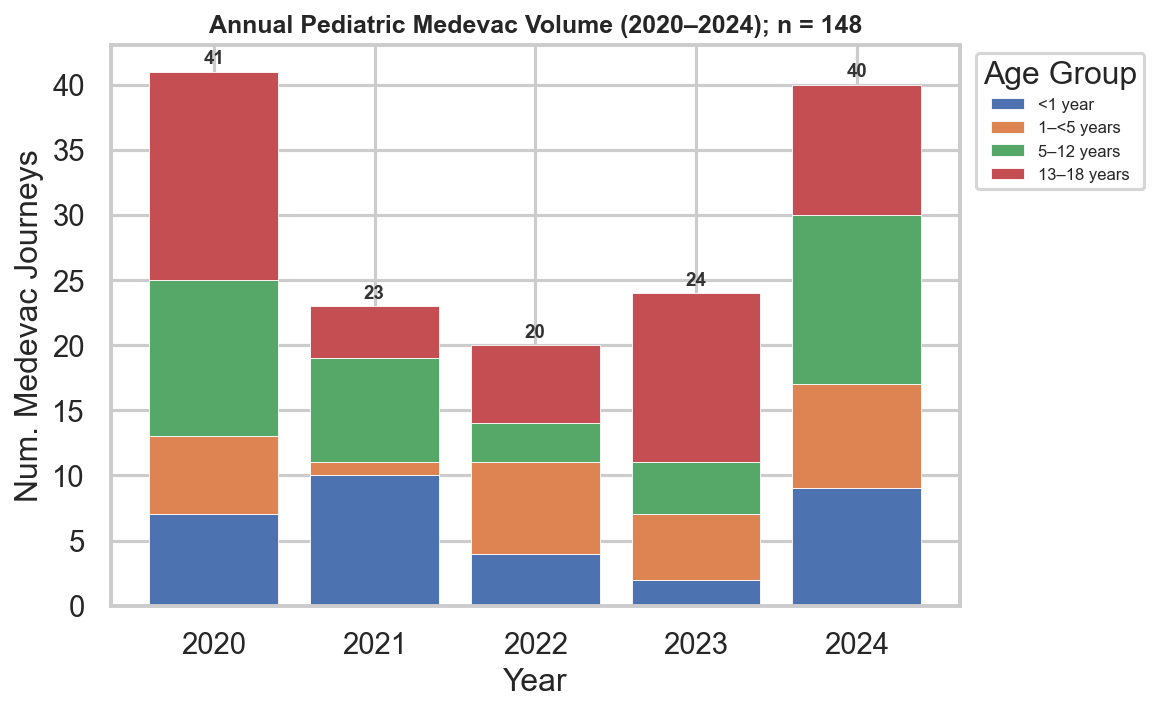
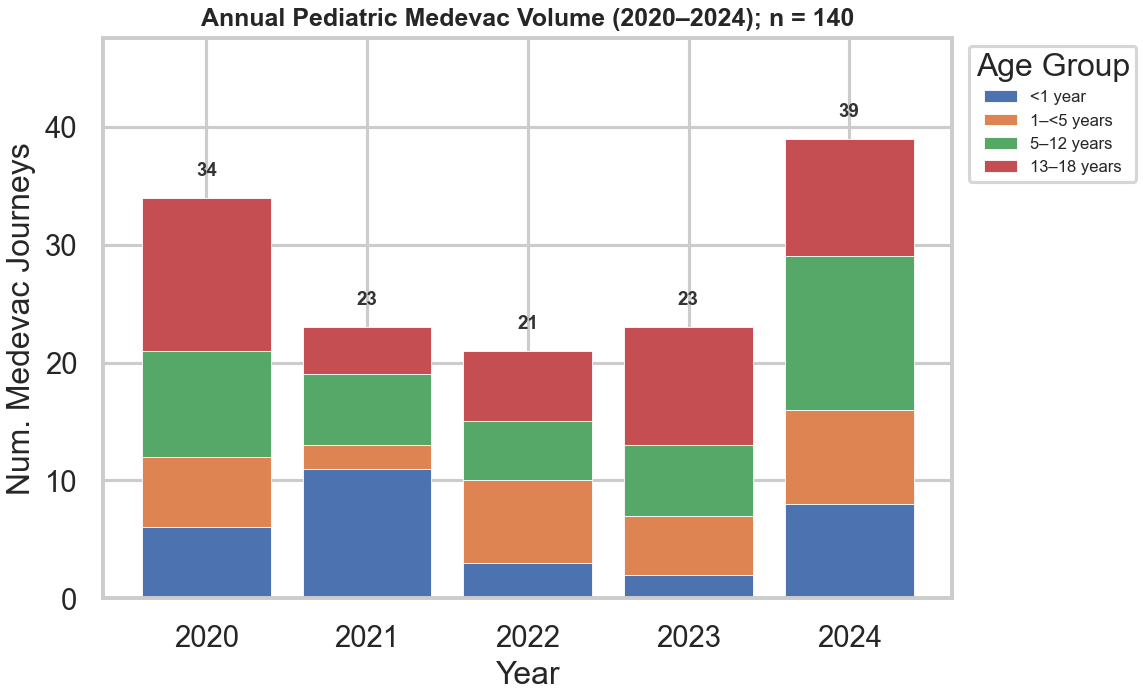
Fix temporal volume figures for primary cohort and regenerate PNGs.
Use journeys_primary with village→MHC route filter, calendar dates from activation timestamps, matching title n to bar totals, y-axis headroom for labels, and pipeline export of fig1a/b and fig2a/b.

Changed region(s): [[0.0, 0.0, 1.0, 0.9943]]

diff --git a/analysis/medevac_summaries.py b/analysis/medevac_summaries.py
@@ -3725,29 +3725,95 @@ _AGE_PALETTE = ["#4C72B0","#DD8452","#55A868","#C44E52"]
 _AGE_ORDER   = ["<1 year","1–<5 years","5–12 years","13–18 years"]
 
 
-def _prep_stacked(
-    df: pd.DataFrame,
-    group_col: str,
-    group_order: list[str],
-    palette: list[str],
-    start_year: int = 2020,
-    end_year:   int = 2024,
-) -> tuple[pd.DataFrame, dict[str, str]]:
-    """Filter to study period and pivot to stacked-bar format."""
+_PRIMARY_ROUTE_LABEL = "Primary (village → MHC)"
+
+
+def _add_calendar_ym(df: pd.DataFrame) -> pd.DataFrame:
+    """Derive calendar year/month from activation timestamps (fallback to journey_start_*)."""
     d = df.copy()
-    yr = pd.to_numeric(d.get("journey_start_year", pd.Series([], dtype=float)), errors="coerce")
-    d = d[yr.between(start_year, end_year, inclusive="both")]
-    color_map = {g: palette[i % len(palette)] for i, g in enumerate(group_order)}
-    return d, color_map
+    yr = pd.Series(pd.NA, index=d.index, dtype="object")
+    mo = pd.Series(pd.NA, index=d.index, dtype="object")
+    for col in ("medevac1_dts", "origin_datetime", "medevac1_date", "journey_start_date"):
+        if col not in d.columns:
+            continue
+        dt = pd.to_datetime(d[col], errors="coerce")
+        yr = yr.where(yr.notna(), dt.dt.year)
+        mo = mo.where(mo.notna(), dt.dt.month)
+    if "journey_start_year" in d.columns:
+        yr = yr.where(yr.notna(), pd.to_numeric(d["journey_start_year"], errors="coerce"))
+    if "journey_start_month" in d.columns:
+        mo = mo.where(mo.notna(), pd.to_numeric(d["journey_start_month"], errors="coerce"))
+    d["_cal_year"] = pd.to_numeric(yr, errors="coerce").astype("Int64")
+    d["_cal_month"] = pd.to_numeric(mo, errors="coerce").astype("Int64")
+    return d
+
+
+def _temporal_cohort_df(
+    df: pd.DataFrame | None = None,
+    start_year: int = 2020,
+    end_year: int = 2024,
+    primary_only: bool = True,
+) -> pd.DataFrame:
+    """
+    Journeys for Paper 1 temporal volume figures.
+
+    Defaults to the prepared primary cohort (village → MHC, no secondary transfer)
+    in the study window, using medevac1_dts-derived calendar dates when available.
+    """
+    if df is None or (isinstance(df, pd.DataFrame) and df.empty):
+        d = load_journeys_primary_prepared()
+    else:
+        d = df.drop_duplicates(subset=["journey_id"]).copy()
+
+    if d.empty:
+        return d
+
+    d = _add_calendar_ym(d)
+    in_window = d["_cal_year"].between(start_year, end_year) & d["_cal_month"].between(1, 12)
+    d = d[in_window].copy()
+
+    if primary_only and "route_type" in d.columns:
+        d = d[d["route_type"] == _PRIMARY_ROUTE_LABEL].copy()
+
+    if "village_name" in d.columns:
+        d["_village"] = d["village_name"].astype(str).str.strip()
+        if "facility_1_name" in d.columns:
+            d["_village"] = d["_village"].where(d["_village"].ne(""), d["facility_1_name"])
+    elif "facility_1_name" in d.columns:
+        d["_village"] = d["facility_1_name"].astype(str).str.strip()
+    else:
+        d["_village"] = ""
+
+    age_col = "age_at_medevac_num" if "age_at_medevac_num" in d.columns else "age_at_medevac"
+    age = pd.to_numeric(d.get(age_col), errors="coerce")
+    d["_age_grp"] = age.map(_age_bucket_label)
+    return d
+
+
+def _stacked_color_map(group_order: list[str], palette: list[str]) -> dict[str, str]:
+    return {g: palette[i % len(palette)] for i, g in enumerate(group_order)}
 
 
 def _add_total_labels(ax: plt.Axes, totals: pd.Series, x_positions) -> None:
     """Place total-n labels above each bar."""
-    for xi, total in zip(x_positions, totals):
+    totals_list = [int(v) for v in totals]
+    max_total = max(totals_list) if totals_list else 0
+    label_pad = max(0.6, max_total * 0.04)
+    for xi, total in zip(x_positions, totals_list):
         ax.text(
-            xi, total + 0.3, str(int(total)),
+            xi, total + label_pad, str(total),
             ha="center", va="bottom", fontsize=9, fontweight="bold", color="#333333",
         )
+    ax.set_ylim(0, max(max_total * 1.18 + label_pad, 1))
+
+
+def _empty_temporal_figure(title: str, message: str = "No journeys in selected cohort.") -> plt.Figure:
+    fig, ax = plt.subplots(figsize=(8, 5))
+    ax.axis("off")
+    ax.set_title(title, fontsize=12, fontweight="bold")
+    ax.text(0.5, 0.5, message, ha="center", va="center", transform=ax.transAxes)
+    fig.tight_layout()
+    return fig
 
 
 def plot_fig1a_monthly_by_village(
@@ -3756,20 +3822,25 @@ def plot_fig1a_monthly_by_village(
     end_year:   int = 2024,
 ) -> plt.Figure:
     """Figure 1A: Monthly medevac volume, stacked by village (2020–2024)."""
+    title = f"Monthly Pediatric Medevac Volume ({start_year}–{end_year}); n = 0"
+    d = _temporal_cohort_df(df, start_year, end_year, primary_only=True)
+    d = d[d["_village"].astype(str).str.strip().ne("")].copy()
+    if d.empty:
+        return _empty_temporal_figure(title.replace("n = 0", "n = 0"))
+
     village_order = (
-        df.groupby("facility_1_name")["journey_id"].count()
-        .sort_values(ascending=False).index.tolist()
+        d.groupby("_village")["journey_id"]
+        .count()
+        .sort_values(ascending=False)
+        .index.tolist()
     )
-    d, cmap = _prep_stacked(df, "facility_1_name", village_order, _VILLAGE_PALETTE, start_year, end_year)
+    cmap = _stacked_color_map(village_order, _VILLAGE_PALETTE)
     n_total = len(d)
 
-    mon = pd.to_numeric(d["journey_start_month"], errors="coerce")
-    d = d[mon.notna()].copy()
-    d["_month"] = mon[mon.notna()].astype(int)
-
     pivot = (
-        d.groupby(["_month", "facility_1_name"])
-        .size().unstack(fill_value=0)
+        d.groupby(["_cal_month", "_village"])
+        .size()
+        .unstack(fill_value=0)
         .reindex(columns=village_order, fill_value=0)
         .reindex(range(1, 13), fill_value=0)
     )
@@ -3805,18 +3876,19 @@ def plot_fig1b_monthly_by_age(
     end_year:   int = 2024,
 ) -> plt.Figure:
     """Figure 1B: Monthly medevac volume, stacked by age group (2020–2024)."""
-    d, cmap = _prep_stacked(df, "_age_grp", _AGE_ORDER, _AGE_PALETTE, start_year, end_year)
+    title = f"Monthly Pediatric Medevac Volume ({start_year}–{end_year}); n = 0"
+    d = _temporal_cohort_df(df, start_year, end_year, primary_only=True)
+    d = d[d["_age_grp"].notna()].copy()
+    if d.empty:
+        return _empty_temporal_figure(title.replace("n = 0", "n = 0"))
+
+    cmap = _stacked_color_map(_AGE_ORDER, _AGE_PALETTE)
     n_total = len(d)
 
-    age = pd.to_numeric(d["age_at_medevac"], errors="coerce")
-    d["_age_grp"] = age.map(_age_bucket_label)
-    mon = pd.to_numeric(d["journey_start_month"], errors="coerce")
-    d = d[mon.notna() & d["_age_grp"].notna()].copy()
-    d["_month"] = mon[d.index].astype(int)
-
     pivot = (
-        d.groupby(["_month", "_age_grp"])
-        .size().unstack(fill_value=0)
+        d.groupby(["_cal_month", "_age_grp"])
+        .size()
+        .unstack(fill_value=0)
         .reindex(columns=_AGE_ORDER, fill_value=0)
         .reindex(range(1, 13), fill_value=0)
     )
@@ -3852,21 +3924,26 @@ def plot_fig2a_annual_by_village(
     end_year:   int = 2024,
 ) -> plt.Figure:
     """Figure 2A: Annual medevac volume, stacked by village (2020–2024)."""
-    village_order = (
-        df.groupby("facility_1_name")["journey_id"].count()
-        .sort_values(ascending=False).index.tolist()
-    )
-    d, cmap = _prep_stacked(df, "facility_1_name", village_order, _VILLAGE_PALETTE, start_year, end_year)
-    n_total = len(d)
+    title = f"Annual Pediatric Medevac Volume ({start_year}–{end_year}); n = 0"
+    d = _temporal_cohort_df(df, start_year, end_year, primary_only=True)
+    d = d[d["_village"].astype(str).str.strip().ne("")].copy()
+    if d.empty:
+        return _empty_temporal_figure(title.replace("n = 0", "n = 0"))
 
-    yr = pd.to_numeric(d["journey_start_year"], errors="coerce")
-    d = d[yr.notna()].copy()
-    d["_year"] = yr[yr.notna()].astype(int)
+    village_order = (
+        d.groupby("_village")["journey_id"]
+        .count()
+        .sort_values(ascending=False)
+        .index.tolist()
+    )
+    cmap = _stacked_color_map(village_order, _VILLAGE_PALETTE)
+    n_total = len(d)
 
     years = list(range(start_year, end_year + 1))
     pivot = (
-        d.groupby(["_year", "facility_1_name"])
-        .size().unstack(fill_value=0)
+        d.groupby(["_cal_year", "_village"])
+        .size()
+        .unstack(fill_value=0)
         .reindex(columns=village_order, fill_value=0)
         .reindex(years, fill_value=0)
     )
@@ -3901,19 +3978,20 @@ def plot_fig2b_annual_by_age(
     end_year:   int = 2024,
 ) -> plt.Figure:
     """Figure 2B: Annual medevac volume, stacked by age group (2020–2024)."""
-    d, cmap = _prep_stacked(df, "_age_grp", _AGE_ORDER, _AGE_PALETTE, start_year, end_year)
-    n_total = len(d)
+    title = f"Annual Pediatric Medevac Volume ({start_year}–{end_year}); n = 0"
+    d = _temporal_cohort_df(df, start_year, end_year, primary_only=True)
+    d = d[d["_age_grp"].notna()].copy()
+    if d.empty:
+        return _empty_temporal_figure(title.replace("n = 0", "n = 0"))
 
-    age = pd.to_numeric(d["age_at_medevac"], errors="coerce")
-    d["_age_grp"] = age.map(_age_bucket_label)
-    yr = pd.to_numeric(d["journey_start_year"], errors="coerce")
-    d = d[yr.notna() & d["_age_grp"].notna()].copy()
-    d["_year"] = yr[d.index].astype(int)
+    cmap = _stacked_color_map(_AGE_ORDER, _AGE_PALETTE)
+    n_total = len(d)
 
     years = list(range(start_year, end_year + 1))
     pivot = (
-        d.groupby(["_year", "_age_grp"])
-        .size().unstack(fill_value=0)
+        d.groupby(["_cal_year", "_age_grp"])
+        .size()
+        .unstack(fill_value=0)
         .reindex(columns=_AGE_ORDER, fill_value=0)
         .reindex(years, fill_value=0)
     )
@@ -4255,6 +4333,17 @@ def save_all_figures(df: pd.DataFrame) -> None:
 
     jp = load_journeys_primary_prepared()
     if not jp.empty:
+        temporal_specs = [
+            ("fig1a_monthly_by_village.png", plot_fig1a_monthly_by_village(jp)),
+            ("fig1b_monthly_by_age.png", plot_fig1b_monthly_by_age(jp)),
+            ("fig2a_annual_by_village.png", plot_fig2a_annual_by_village(jp)),
+            ("fig2b_annual_by_age.png", plot_fig2b_annual_by_age(jp)),
+        ]
+        for name, fig in temporal_specs:
+            fig.savefig(OUT_FIGS / name, bbox_inches="tight", pad_inches=0.05)
+            plt.close(fig)
+            print(f"Wrote {OUT_FIGS / name}")
+
         fig_sankey = plot_fig4_sankey_transport_routes(jp)
         fig_sankey.savefig(
             OUT_FIGS / "fig4_sankey_transport_routes.png",
